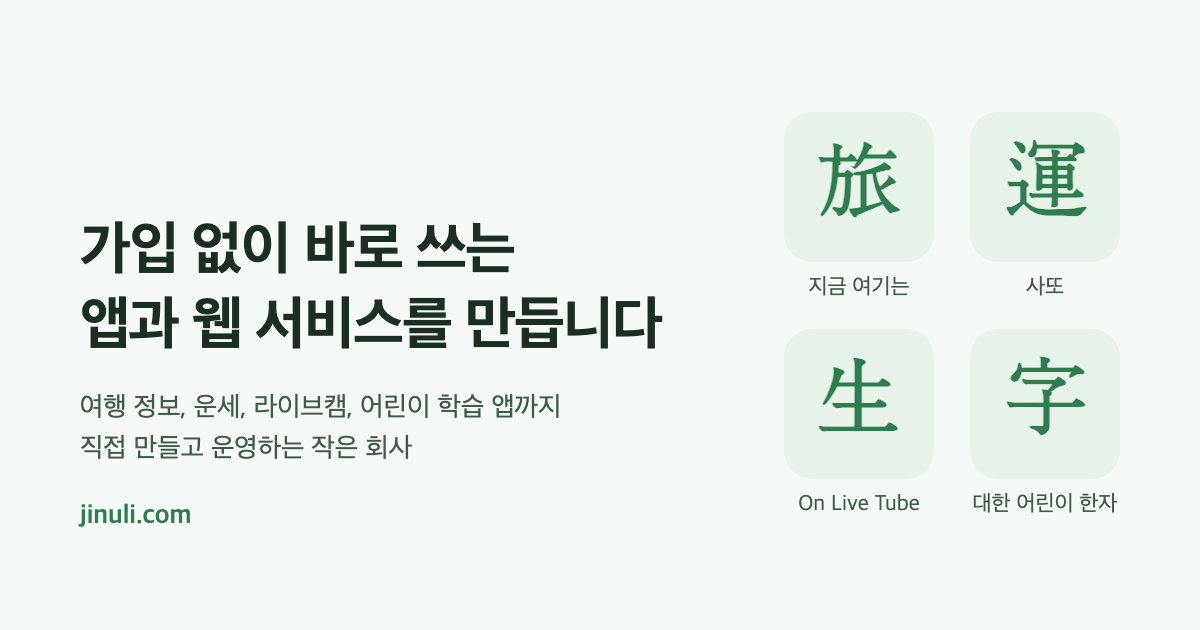
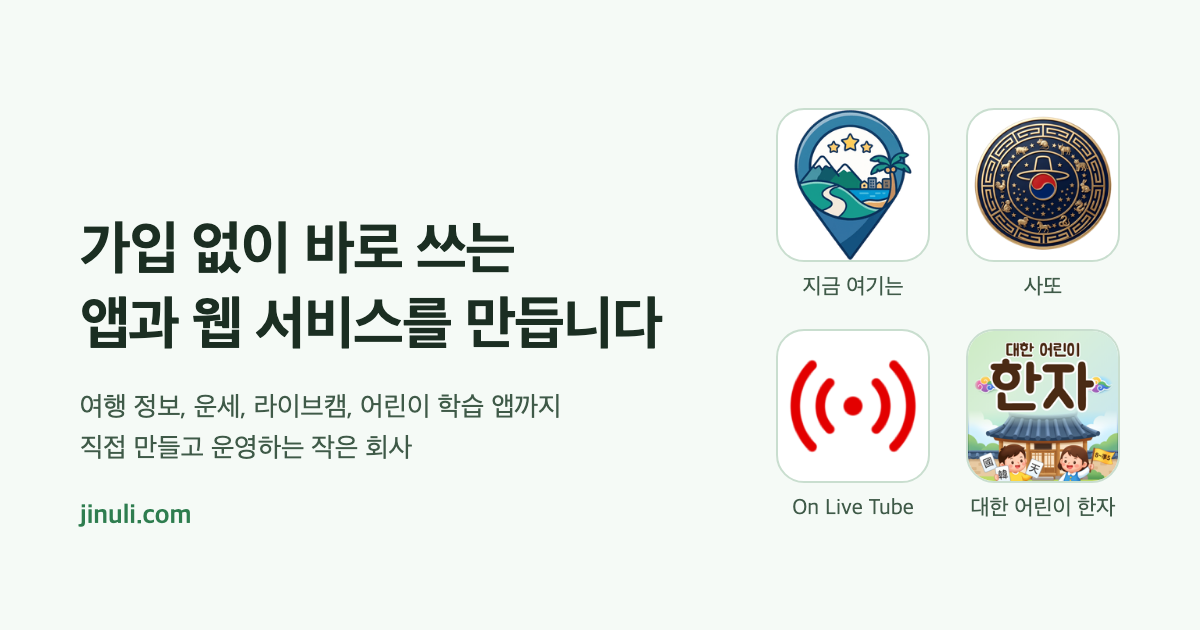
fix(design): 한자 흔적 제거 — 서비스 마크를 실제 로고로, Noto Serif 제거, 파비콘을 녹색 '지'로
- public/marks/*.png: 지금 여기는·사또·On Live Tube·대한 어린이 한자 로고(각 리포에서 192px 로 복사)
- ServiceInfo.mark(한자 한 글자) → icon(이미지 경로), 타일은 흰 바탕 둥근 사각
- index.html 의 Google Fonts(Noto Serif KR) 링크 제거
- favicon.svg: Pretendard GOV Bold '지' 글리프 패스 + #2e7d4f, apple-touch-icon·og.png 재생성(data URI 로 삽입)

diff --git a/src/widgets/service-showcase/ui/ServiceShowcase.scss b/src/widgets/service-showcase/ui/ServiceShowcase.scss
@@ -6,21 +6,19 @@
   max-width: 76rem;
   & + & { margin-top: var(--krds-gap-9); padding-top: var(--krds-gap-9); border-top: var(--krds-light-border-width-static-regular) solid var(--krds-light-color-border-gray-light); }
 }
-// 마크는 그림 요소라 글자 크기를 직접 적는다(KRDS 토큰 없음).
+// 아이콘 타일. 각 서비스 로고(PNG)를 흰 바탕 둥근 사각에 담는다. 로고 모양이 제각각이라 안쪽 여백으로 크기를 맞춘다.
 .service-mark {
   width: 7.2rem;
   height: 7.2rem;
   border-radius: var(--krds-radius-xlarge1);
-  background: var(--krds-color-light-primary-10);
-  color: var(--krds-light-color-text-primary);
+  background: var(--krds-light-color-surface-white);
+  border: var(--krds-light-border-width-static-regular) solid var(--krds-light-color-border-gray-light);
+  overflow: hidden;
   display: flex;
   align-items: center;
   justify-content: center;
-  font-family: 'Noto Serif KR', serif;
-  font-weight: 700;
-  font-size: 3.6rem;
-  line-height: 1;
-  &.large { width: 9.6rem; height: 9.6rem; font-size: 5.2rem; }
+  img { width: 100%; height: 100%; object-fit: cover; display: block; }
+  &.large { width: 9.6rem; height: 9.6rem; }
 }
 .service-showcase-name {
   margin: 0 0 var(--krds-gap-2);
@@ -40,6 +38,6 @@
 .service-showcase-links { display: flex; flex-wrap: wrap; gap: var(--krds-gap-3); margin: var(--krds-gap-6) 0 0; }
 @media (max-width: 767px) {
   .service-showcase { grid-template-columns: 5.6rem 1fr; gap: var(--krds-gap-4); }
-  .service-mark { width: 5.6rem; height: 5.6rem; font-size: 2.8rem; &.large { width: 7.2rem; height: 7.2rem; font-size: 3.8rem; } }
+  .service-mark { width: 5.6rem; height: 5.6rem; &.large { width: 7.2rem; height: 7.2rem; } }
   .service-showcase-name { font-size: var(--krds-mobile-font-size-heading-medium); }
 }

diff --git a/src/entities/service/model/services.ts b/src/entities/service/model/services.ts
@@ -1,6 +1,7 @@
 /**
  * 지누리컴퍼니가 만들고 운영하는 서비스. 운영 중인 것을 앞에, 준비 중인 것을 뒤에 둔다.
  * 소개 문안은 각 서비스 사이트의 소개·메타 설명(2026-10-22 확인)을 바탕으로 썼다. 서비스가 바뀌면 여기만 고친다.
+ * 아이콘 출처: site3/public/brand/logo-mark-192.png, site2/public/logo.png, site/public/favicon/apple-icon-180x180.png, app1/assets/images/icon.png
  */
 import type { ServiceInfo, ServiceStatus } from './types';
 
@@ -9,7 +10,7 @@ export const SERVICES: ServiceInfo[] = [
     slug: 'nowyeogi',
     name: '지금 여기는',
     kind: 'web',
-    mark: '旅',
+    icon: '/marks/nowyeogi.png',
     platforms: '웹 · 한국어 · English · 日本語',
     status: 'released',
     url: 'https://nowyeogi.com/',
@@ -27,7 +28,7 @@ export const SERVICES: ServiceInfo[] = [
     slug: 'satto',
     name: '사또',
     kind: 'web',
-    mark: '運',
+    icon: '/marks/satto.png',
     platforms: '웹 · 한국어',
     status: 'released',
     url: 'https://satto.kr/',
@@ -45,7 +46,7 @@ export const SERVICES: ServiceInfo[] = [
     slug: 'onlivetube',
     name: 'On Live Tube',
     kind: 'web',
-    mark: '生',
+    icon: '/marks/onlivetube.png',
     platforms: '웹 · English',
     status: 'released',
     url: 'https://onlivetube.com/',
@@ -62,7 +63,7 @@ export const SERVICES: ServiceInfo[] = [
     slug: 'daehan-kids-hanja',
     name: '대한 어린이 한자',
     kind: 'app',
-    mark: '字',
+    icon: '/marks/daehan-kids-hanja.png',
     platforms: '안드로이드 · iOS',
     status: 'preparing',
     summary:

diff --git a/src/widgets/service-showcase/ui/ServiceMark.tsx b/src/widgets/service-showcase/ui/ServiceMark.tsx
@@ -1,7 +1,11 @@
-/** 서비스 마크(한자 한 글자 타일). 소개 블록과 첫 화면이 같이 쓴다. */
+/** 서비스 아이콘 타일. 소개 블록과 첫 화면이 같이 쓴다. 그림은 장식이라 alt 를 비운다(이름은 옆 글자가 말한다). */
 import type { ServiceInfo } from '@entities/service';
 import './ServiceShowcase.scss';
 
-export function ServiceMark({ service, size = 'medium' }: { service: Pick<ServiceInfo, 'mark'>; size?: 'medium' | 'large' }) {
-  return <div className={`service-mark ${size}`} aria-hidden="true">{service.mark}</div>;
+export function ServiceMark({ service, size = 'medium' }: { service: Pick<ServiceInfo, 'icon'>; size?: 'medium' | 'large' }) {
+  return (
+    <div className={`service-mark ${size}`}>
+      <img src={service.icon} alt="" width={size === 'large' ? 96 : 72} height={size === 'large' ? 96 : 72} loading="lazy" />
+    </div>
+  );
 }

diff --git a/src/entities/service/model/types.ts b/src/entities/service/model/types.ts
@@ -6,8 +6,8 @@ export interface ServiceInfo {
   slug: string;
   name: string;
   kind: ServiceKind;
-  /** 마크에 보일 한 글자(한자). 확정 아이콘이 나오면 iconUrl 로 교체한다. */
-  mark: string;
+  /** 서비스 아이콘(정사각 PNG, public/marks/). 각 서비스 리포의 로고를 192px 로 줄여 복사한 것이다. */
+  icon: string;
   /** 플랫폼·언어 한 줄. 예: '안드로이드 · iOS', '웹 · 한국어·English·日本語' */
   platforms: string;
   status: ServiceStatus;

diff --git a/index.html b/index.html
@@ -6,9 +6,6 @@
     <link rel="icon" href="/favicon.svg" type="image/svg+xml" />
     <link rel="apple-touch-icon" href="/apple-touch-icon.png" />
     <meta name="theme-color" content="#f5faf6" />
-    <link rel="preconnect" href="https://fonts.googleapis.com" />
-    <link rel="preconnect" href="https://fonts.gstatic.com" crossorigin />
-    <link rel="stylesheet" href="https://fonts.googleapis.com/css2?family=Noto+Serif+KR:wght@700&display=swap" />
     <!--app-head-->
   </head>
   <body>

diff --git a/개발초안_지누리컴퍼니소개사이트_jinuli.com_신규구축_20261020.md b/개발초안_지누리컴퍼니소개사이트_jinuli.com_신규구축_20261020.md
@@ -233,3 +233,12 @@ src/
 - `/privacy/` 에 "웹 서비스" 절: 자체 사이트 방침이 확인된 지금 여기는(nowyeogi.com/privacy/)·사또(satto.kr/privacy/)만. **onlivetube.com 은 리포에 /privacy·/about 이 있지만 실서버가 404** (2026-09-09 커밋이 배포 안 된 듯) → 사용자에게 알림, 링크 안 넣음.
 - 구조화 데이터: 웹 서비스마다 WebSite(publisher=Organization), 앱은 SoftwareApplication.
 - 검증: check 통과(12 테스트), e2e 5경로×2 콘솔오류 0·axe 0.
+
+### 12.1 한자 흔적 제거 (2026-10-22)
+
+사용자: "왜 한자로 나오는 거야? 이 사이트는 한자를 이제 버려야지." → 한자 앱 시절의 장식(한자 마크, Noto Serif KR, 인주 도장 파비콘)을 모두 걷어냈다.
+
+- 서비스 마크 → 각 서비스의 실제 로고 PNG(`public/marks/<slug>.png`, 192px). 출처는 `entities/service/model/services.ts` 주석. `ServiceInfo.mark` → `icon`.
+- `index.html` 에서 Google Fonts(Noto Serif KR) 링크 제거 → 외부 글꼴 의존 없음.
+- 파비콘: 녹색(#2e7d4f) 둥근 사각 + 흰 "지"(Pretendard GOV Bold 글리프를 패스로). apple-touch-icon 은 그 SVG 를 180px 로 굳힌 것.
+- og.png 오른쪽도 로고 4개. `make-images.mjs` 는 about:blank 에서 file:// 이미지를 못 읽어 data URI 로 넣는다.
